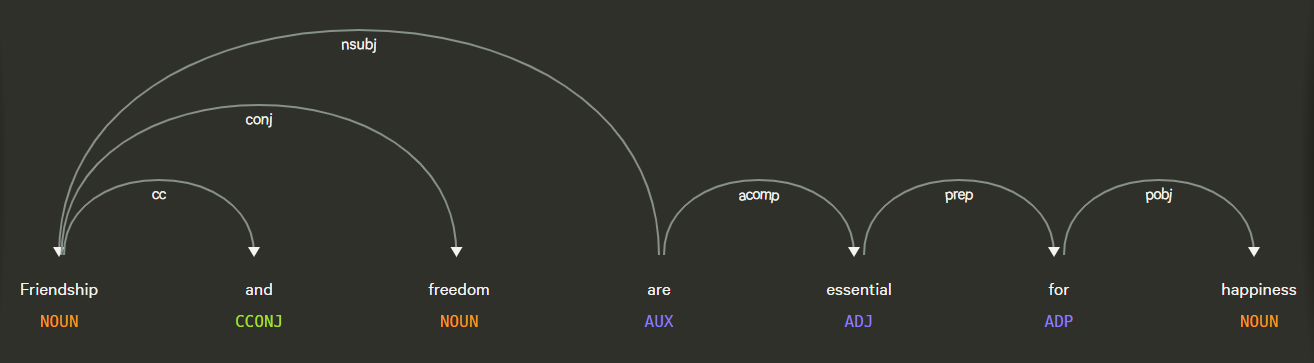
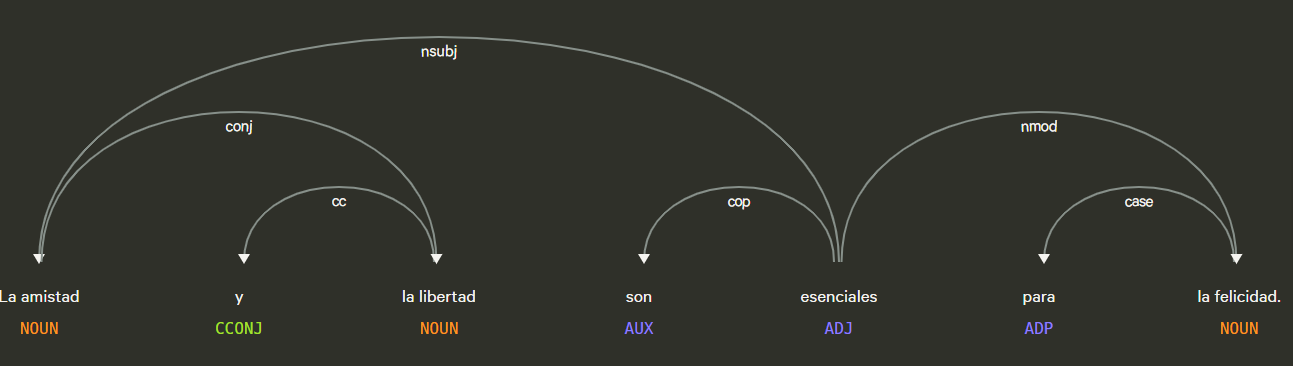
Fix

diff --git a/ApiAbstractWords/README.md b/ApiAbstractWords/README.md
@@ -23,10 +23,10 @@ Además, detecta posibles palabras abstractas por **prefijos** (`in-`, `im-`, `i
 
 ## Ejemplos guiados
 
-![Figura 1:  “Friendship and freedom are essential for happiness”](imagen1.png)
+![Figura 1:  “La amistad y la libertad son esenciales para la felicidad.”](imagen1.png)
 
 
-**Figura 1.  “Friendship and freedom are essential for happiness”**  
+**Figura 1.  “La amistad y la libertad son esenciales para la felicidad.”**  
 
 En la figura 1:
 - “amistad”, “libertad” y “felicidad” están en la lista de referencia de palabras abstractas.
